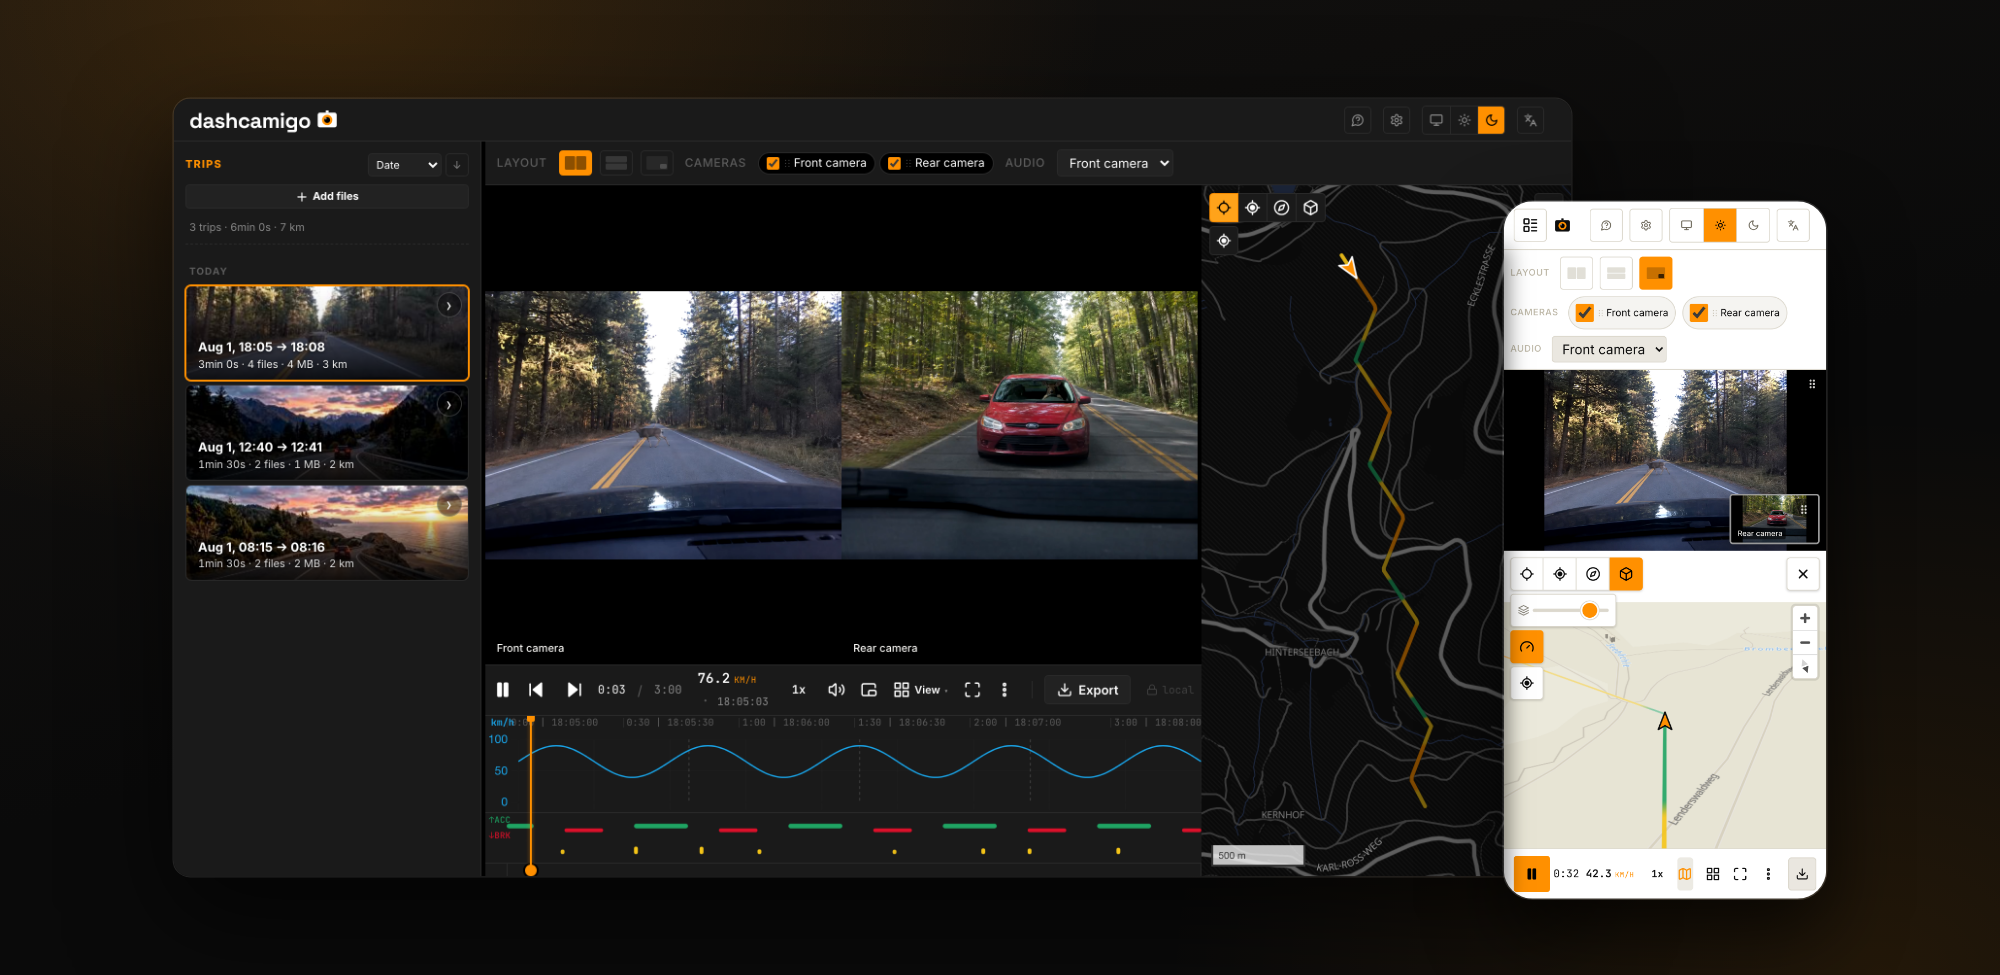
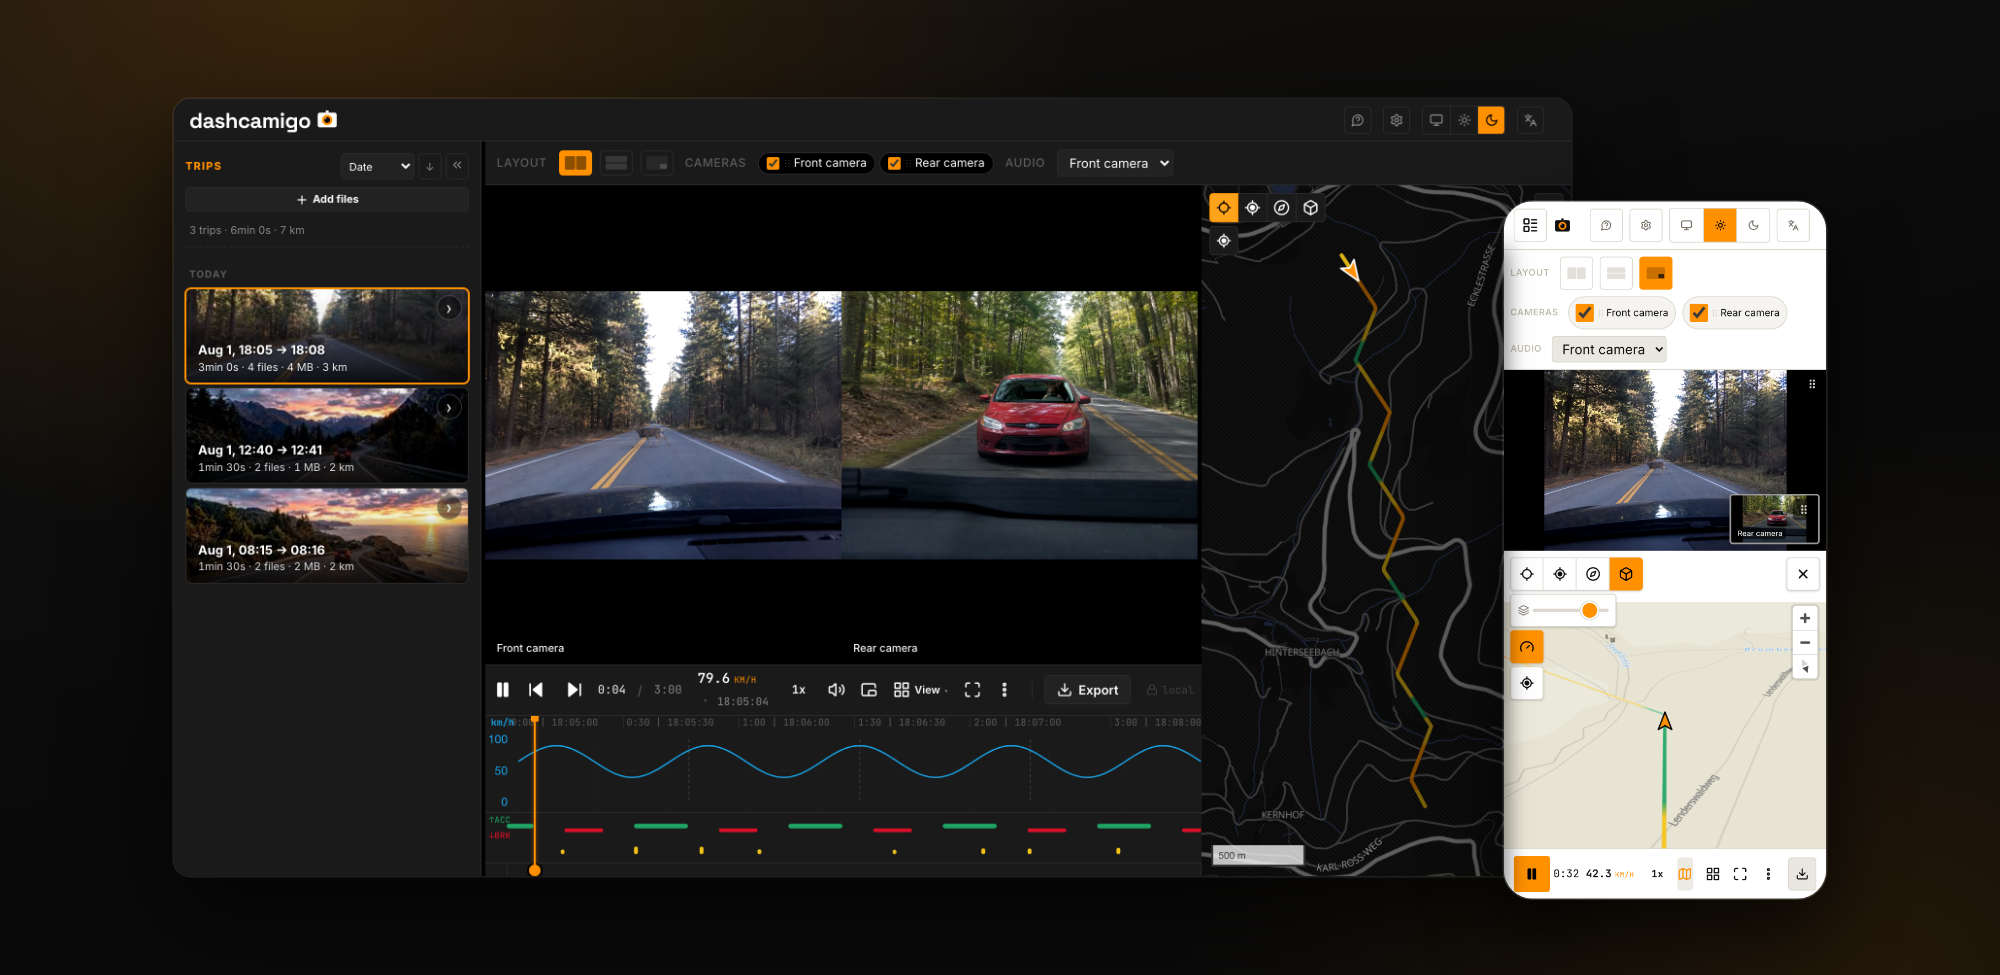
feat(sidebar): the trip list collapses behind a toggle instead of a resize dance
A chevron among the sort controls frees the whole sidebar column (the
same 0-track mechanics as the export-mode slide-away); a slim edge tab
at the layout's left border brings the list back and receives focus so
the keyboard is never stranded on a hidden control. Deliberately
session-only: a reload always brings the list back - it is the only way
to pick a trip. Desktop-only by scope: the collapse rules live under
the complementary desktop media query, so the mobile drawer - which
reuses the same .sidebar element - is untouched.

README screenshots and the landing WebP set refreshed (the chevron sits
in the default sidebar header).

diff --git a/src/styles/components/sidebar.css b/src/styles/components/sidebar.css
@@ -806,6 +806,77 @@
 }
 
 /* =========================================================================
+   SIDEBAR COLLAPSE (desktop)
+   body.sidebar-collapsed frees the whole sidebar column - same 0-track
+   mechanics as the export-mode slide-away (export-panel.css). Scoped to the
+   complementary desktop media so it never touches the mobile drawer, which
+   reuses the same .sidebar element with position:fixed.
+   ========================================================================= */
+/* The edge tab that brings the list back. Hidden until collapsed; sits at
+   the layout's left edge (main.layout is position:relative), above the
+   viewer content. */
+.sidebar-expand-tab {
+    display: none;
+    position: absolute;
+    left: 0;
+    top: 50%;
+    transform: translateY(-50%);
+    z-index: 30;
+    width: 20px;
+    height: 64px;
+    padding: 0;
+    align-items: center;
+    justify-content: center;
+    background: var(--bg-elev-2);
+    color: var(--fg-dim);
+    border: 1px solid var(--border);
+    border-left: 0;
+    border-radius: 0 var(--dc-radius-md) var(--dc-radius-md) 0;
+    cursor: pointer;
+    transition:
+        background var(--dc-dur-fast) var(--dc-ease),
+        color var(--dc-dur-fast) var(--dc-ease);
+}
+.sidebar-expand-tab:hover {
+    background: var(--bg-hover);
+    color: var(--fg);
+}
+.sidebar-expand-tab:focus-visible {
+    outline: 2px solid var(--accent);
+    outline-offset: 1px;
+}
+@media (min-width: 768px) and (min-height: 501px) {
+    body.sidebar-collapsed main.layout {
+        grid-template-columns: 0 0 minmax(0, 1fr);
+    }
+    /* visibility, NOT display:none: the viewer has no explicit grid-column
+       and auto-places after these two boxes - removing them from the flow
+       would slide it into the 0-width first track (a black screen).
+       visibility keeps the boxes (and the placement) while hiding paint,
+       focus and the a11y subtree; export-mode solves the same problem with
+       transform+opacity. This media excludes the drawer layouts, so the
+       fixed-position drawer styles never coexist with the collapse. */
+    body.sidebar-collapsed .sidebar,
+    body.sidebar-collapsed .sidebar-resize {
+        visibility: hidden;
+    }
+    /* :not(.export-mode): export slides the sidebar away on its own
+       (export-panel.css) and ignores this class - the tab would show but
+       clicking it could not bring the list back, so it hides for the
+       duration and returns when export mode ends. */
+    body.sidebar-collapsed:not(.export-mode) .sidebar-expand-tab {
+        display: inline-flex;
+    }
+}
+/* The collapse chevron lives among the sort controls; it is desktop-only -
+   the mobile drawer closes via the burger/scrim instead. */
+@media (max-width: 767px), (max-height: 500px) and (orientation: landscape) {
+    .sidebar-collapse-btn {
+        display: none;
+    }
+}
+
+/* =========================================================================
    MOBILE DRAWER (< 768px)
    On mobile the sidebar becomes an off-canvas drawer that slides in from
    the left via translateX. Opening/closing is via the data-drawer-open

diff --git a/index.html b/index.html
@@ -705,6 +705,16 @@
                     <button id="trip-sort-dir" class="sort-btn" type="button"
                             data-i18n-attr="aria-label:sidebar.sort.dir.desc,title:sidebar.sort.dir.desc"
                             aria-label="Descending" title="Descending">↓</button>
+                    <!-- Collapse the whole trip list (desktop only; the mobile
+                         drawer has the burger). Counterpart: #sidebar-expand,
+                         the edge tab that brings the list back. -->
+                    <button id="sidebar-collapse" class="sort-btn sidebar-collapse-btn" type="button"
+                            data-i18n-attr="aria-label:sidebar.collapse,title:sidebar.collapse"
+                            aria-label="Hide the trip list" title="Hide the trip list"
+                            aria-expanded="true" aria-controls="sidebar">
+                        <svg width="14" height="14" viewBox="0 0 24 24" fill="none" stroke="currentColor"
+                             stroke-width="2" stroke-linecap="round" stroke-linejoin="round" aria-hidden="true"><path d="m11 17-5-5 5-5"/><path d="m18 17-5-5 5-5"/></svg>
+                    </button>
                 </div>
             </div>
             <!-- Compact CTA button for adding files. label[for="folder-input"]
@@ -727,6 +737,17 @@
         <div id="sidebar-resize" class="sidebar-resize" role="separator" aria-orientation="vertical"
              data-i18n-attr="aria-label:sidebar.resize"
              aria-label="Resize sidebar" tabindex="0"></div>
+
+        <!-- Edge tab shown only while the trip list is collapsed
+             (body.sidebar-collapsed) - the way back without the mouse-resize
+             dance. Absolutely positioned at the layout's left edge. -->
+        <button id="sidebar-expand" class="sidebar-expand-tab" type="button"
+                data-i18n-attr="aria-label:sidebar.expand,title:sidebar.expand"
+                aria-label="Show the trip list" title="Show the trip list"
+                aria-expanded="false" aria-controls="sidebar">
+            <svg width="14" height="14" viewBox="0 0 24 24" fill="none" stroke="currentColor"
+                 stroke-width="2" stroke-linecap="round" stroke-linejoin="round" aria-hidden="true"><path d="m6 17 5-5-5-5"/><path d="m13 17 5-5-5-5"/></svg>
+        </button>
 
         <section class="viewer">
             <!-- Landing sections for body.no-trips (initial state, nothing

diff --git a/src/ui/sidebar-resize.ts b/src/ui/sidebar-resize.ts
@@ -1,5 +1,7 @@
 // Drag handle between sidebar and main area. Width stored in --sidebar-width on :root and persisted to localStorage.
 // mousemove is on document because the cursor can escape the handle during fast drags.
+// Also owns the collapse toggle (body.sidebar-collapsed + the edge tab) -
+// collapse is the other way the user manages the same column's width.
 
 import { dom } from "./dom.js";
 
@@ -36,8 +38,28 @@ function restoreSidebarWidth(): void {
     }
 }
 
+/** Applies the collapsed state to the DOM: the body class drives the CSS
+ *  (0-track column + edge tab visibility), aria-expanded mirrors it on both
+ *  toggles for screen readers. */
+function applySidebarCollapsed(collapsed: boolean): void {
+    document.body.classList.toggle("sidebar-collapsed", collapsed);
+    dom.sidebarCollapseBtn.setAttribute("aria-expanded", String(!collapsed));
+    dom.sidebarExpandTab.setAttribute("aria-expanded", String(!collapsed));
+}
+
+function setSidebarCollapsed(collapsed: boolean): void {
+    applySidebarCollapsed(collapsed);
+    // The vanished control would strand keyboard focus on a hidden element;
+    // hand it to the counterpart so Tab keeps working from the same spot.
+    (collapsed ? dom.sidebarExpandTab : dom.sidebarCollapseBtn).focus();
+}
+
 export function initSidebarResize(): void {
     restoreSidebarWidth();
+    // Session-only on purpose (no persistence): a fresh page always shows the
+    // list - it is the only way to pick a trip to watch.
+    dom.sidebarCollapseBtn.addEventListener("click", () => setSidebarCollapsed(true));
+    dom.sidebarExpandTab.addEventListener("click", () => setSidebarCollapsed(false));
 
     let sidebarDragging = false;
 

diff --git a/src/i18n/ru.ts b/src/i18n/ru.ts
@@ -184,6 +184,8 @@ export const ruDict = {
     "sidebar.sort.options.size": "Размер",
     "sidebar.sort.dir.desc": "По убыванию",
     "sidebar.sort.dir.asc": "По возрастанию",
+    "sidebar.collapse": "Скрыть список поездок",
+    "sidebar.expand": "Показать список поездок",
     "sidebar.resize": "Изменить ширину сайдбара",
     "sidebar.unindexed.title": "Не удалось проиндексировать",
     "sidebar.unindexed.note": "{n, plural, one {# файл} few {# файла} other {# файлов}} — см. консоль",

diff --git a/src/i18n/pl.ts b/src/i18n/pl.ts
@@ -179,6 +179,8 @@ export const plDict = {
     "sidebar.sort.options.size": "Rozmiar",
     "sidebar.sort.dir.desc": "Malejąco",
     "sidebar.sort.dir.asc": "Rosnąco",
+    "sidebar.collapse": "Ukryj listę przejazdów",
+    "sidebar.expand": "Pokaż listę przejazdów",
     "sidebar.resize": "Zmień szerokość paska bocznego",
     "sidebar.unindexed.title": "Nie udało się zindeksować",
     "sidebar.unindexed.note": "{n, plural, one {# plik} few {# pliki} many {# plików} other {# pliku}} — patrz konsola",

diff --git a/src/i18n/fr.ts b/src/i18n/fr.ts
@@ -181,6 +181,8 @@ export const frDict = {
     "sidebar.sort.options.size": "Taille",
     "sidebar.sort.dir.desc": "Décroissant",
     "sidebar.sort.dir.asc": "Croissant",
+    "sidebar.collapse": "Masquer la liste des trajets",
+    "sidebar.expand": "Afficher la liste des trajets",
     "sidebar.resize": "Redimensionner la barre latérale",
     "sidebar.unindexed.title": "Indexation impossible",
     "sidebar.unindexed.note": "{n, plural, one {# fichier} other {# fichiers}} — voir la console",

diff --git a/src/i18n/es.ts b/src/i18n/es.ts
@@ -180,6 +180,8 @@ export const esDict = {
     "sidebar.sort.options.size": "Tamaño",
     "sidebar.sort.dir.desc": "Descendente",
     "sidebar.sort.dir.asc": "Ascendente",
+    "sidebar.collapse": "Ocultar la lista de trayectos",
+    "sidebar.expand": "Mostrar la lista de trayectos",
     "sidebar.resize": "Cambiar ancho de la barra lateral",
     "sidebar.unindexed.title": "No se pudo indexar",
     "sidebar.unindexed.note": "{n, plural, one {# archivo} other {# archivos}} — mira la consola",

diff --git a/src/ui/dom.ts b/src/ui/dom.ts
@@ -251,6 +251,8 @@ export const dom = {
     sortKey: $id<HTMLSelectElement>("trip-sort-key"),
     sortDir: $id<HTMLButtonElement>("trip-sort-dir"),
     sidebarResize: $id<HTMLDivElement>("sidebar-resize"),
+    sidebarCollapseBtn: $id<HTMLButtonElement>("sidebar-collapse"),
+    sidebarExpandTab: $id<HTMLButtonElement>("sidebar-expand"),
     sidebar: $sel<HTMLElement>(".sidebar"),
     drawerScrim: $id<HTMLElement>("drawer-scrim"),
     topbarBurger: $id<HTMLButtonElement>("topbar-burger"),

diff --git a/src/i18n/pt.ts b/src/i18n/pt.ts
@@ -179,6 +179,8 @@ export const ptDict = {
     "sidebar.sort.options.size": "Tamanho",
     "sidebar.sort.dir.desc": "Decrescente",
     "sidebar.sort.dir.asc": "Crescente",
+    "sidebar.collapse": "Ocultar a lista de viagens",
+    "sidebar.expand": "Mostrar a lista de viagens",
     "sidebar.resize": "Mudar largura da barra lateral",
     "sidebar.unindexed.title": "Não consegui indexar",
     "sidebar.unindexed.note": "{n, plural, one {# arquivo} other {# arquivos}} — veja o console",

diff --git a/src/i18n/ja.ts b/src/i18n/ja.ts
@@ -189,6 +189,8 @@ export const jaDict = {
     "sidebar.sort.options.size": "サイズ",
     "sidebar.sort.dir.desc": "降順",
     "sidebar.sort.dir.asc": "昇順",
+    "sidebar.collapse": "走行リストを隠す",
+    "sidebar.expand": "走行リストを表示",
     "sidebar.resize": "サイドバーの幅を変更",
     "sidebar.unindexed.title": "インデックスできませんでした",
     "sidebar.unindexed.note": "{n} 件のファイル — コンソールを参照",

diff --git a/src/i18n/de.ts b/src/i18n/de.ts
@@ -179,6 +179,8 @@ export const deDict = {
     "sidebar.sort.options.size": "Größe",
     "sidebar.sort.dir.desc": "Absteigend",
     "sidebar.sort.dir.asc": "Aufsteigend",
+    "sidebar.collapse": "Fahrtenliste ausblenden",
+    "sidebar.expand": "Fahrtenliste einblenden",
     "sidebar.resize": "Seitenleiste anpassen",
     "sidebar.unindexed.title": "Konnte nicht indiziert werden",
     "sidebar.unindexed.note": "{n, plural, one {# Datei} other {# Dateien}} — siehe Konsole",

diff --git a/src/i18n/en.ts b/src/i18n/en.ts
@@ -180,6 +180,8 @@ export const enDict = {
     "sidebar.sort.options.size": "Size",
     "sidebar.sort.dir.desc": "Descending",
     "sidebar.sort.dir.asc": "Ascending",
+    "sidebar.collapse": "Hide the trip list",
+    "sidebar.expand": "Show the trip list",
     "sidebar.resize": "Resize sidebar",
     "sidebar.unindexed.title": "Couldn't index",
     "sidebar.unindexed.note": "{n, plural, one {# file} other {# files}} — see console",
